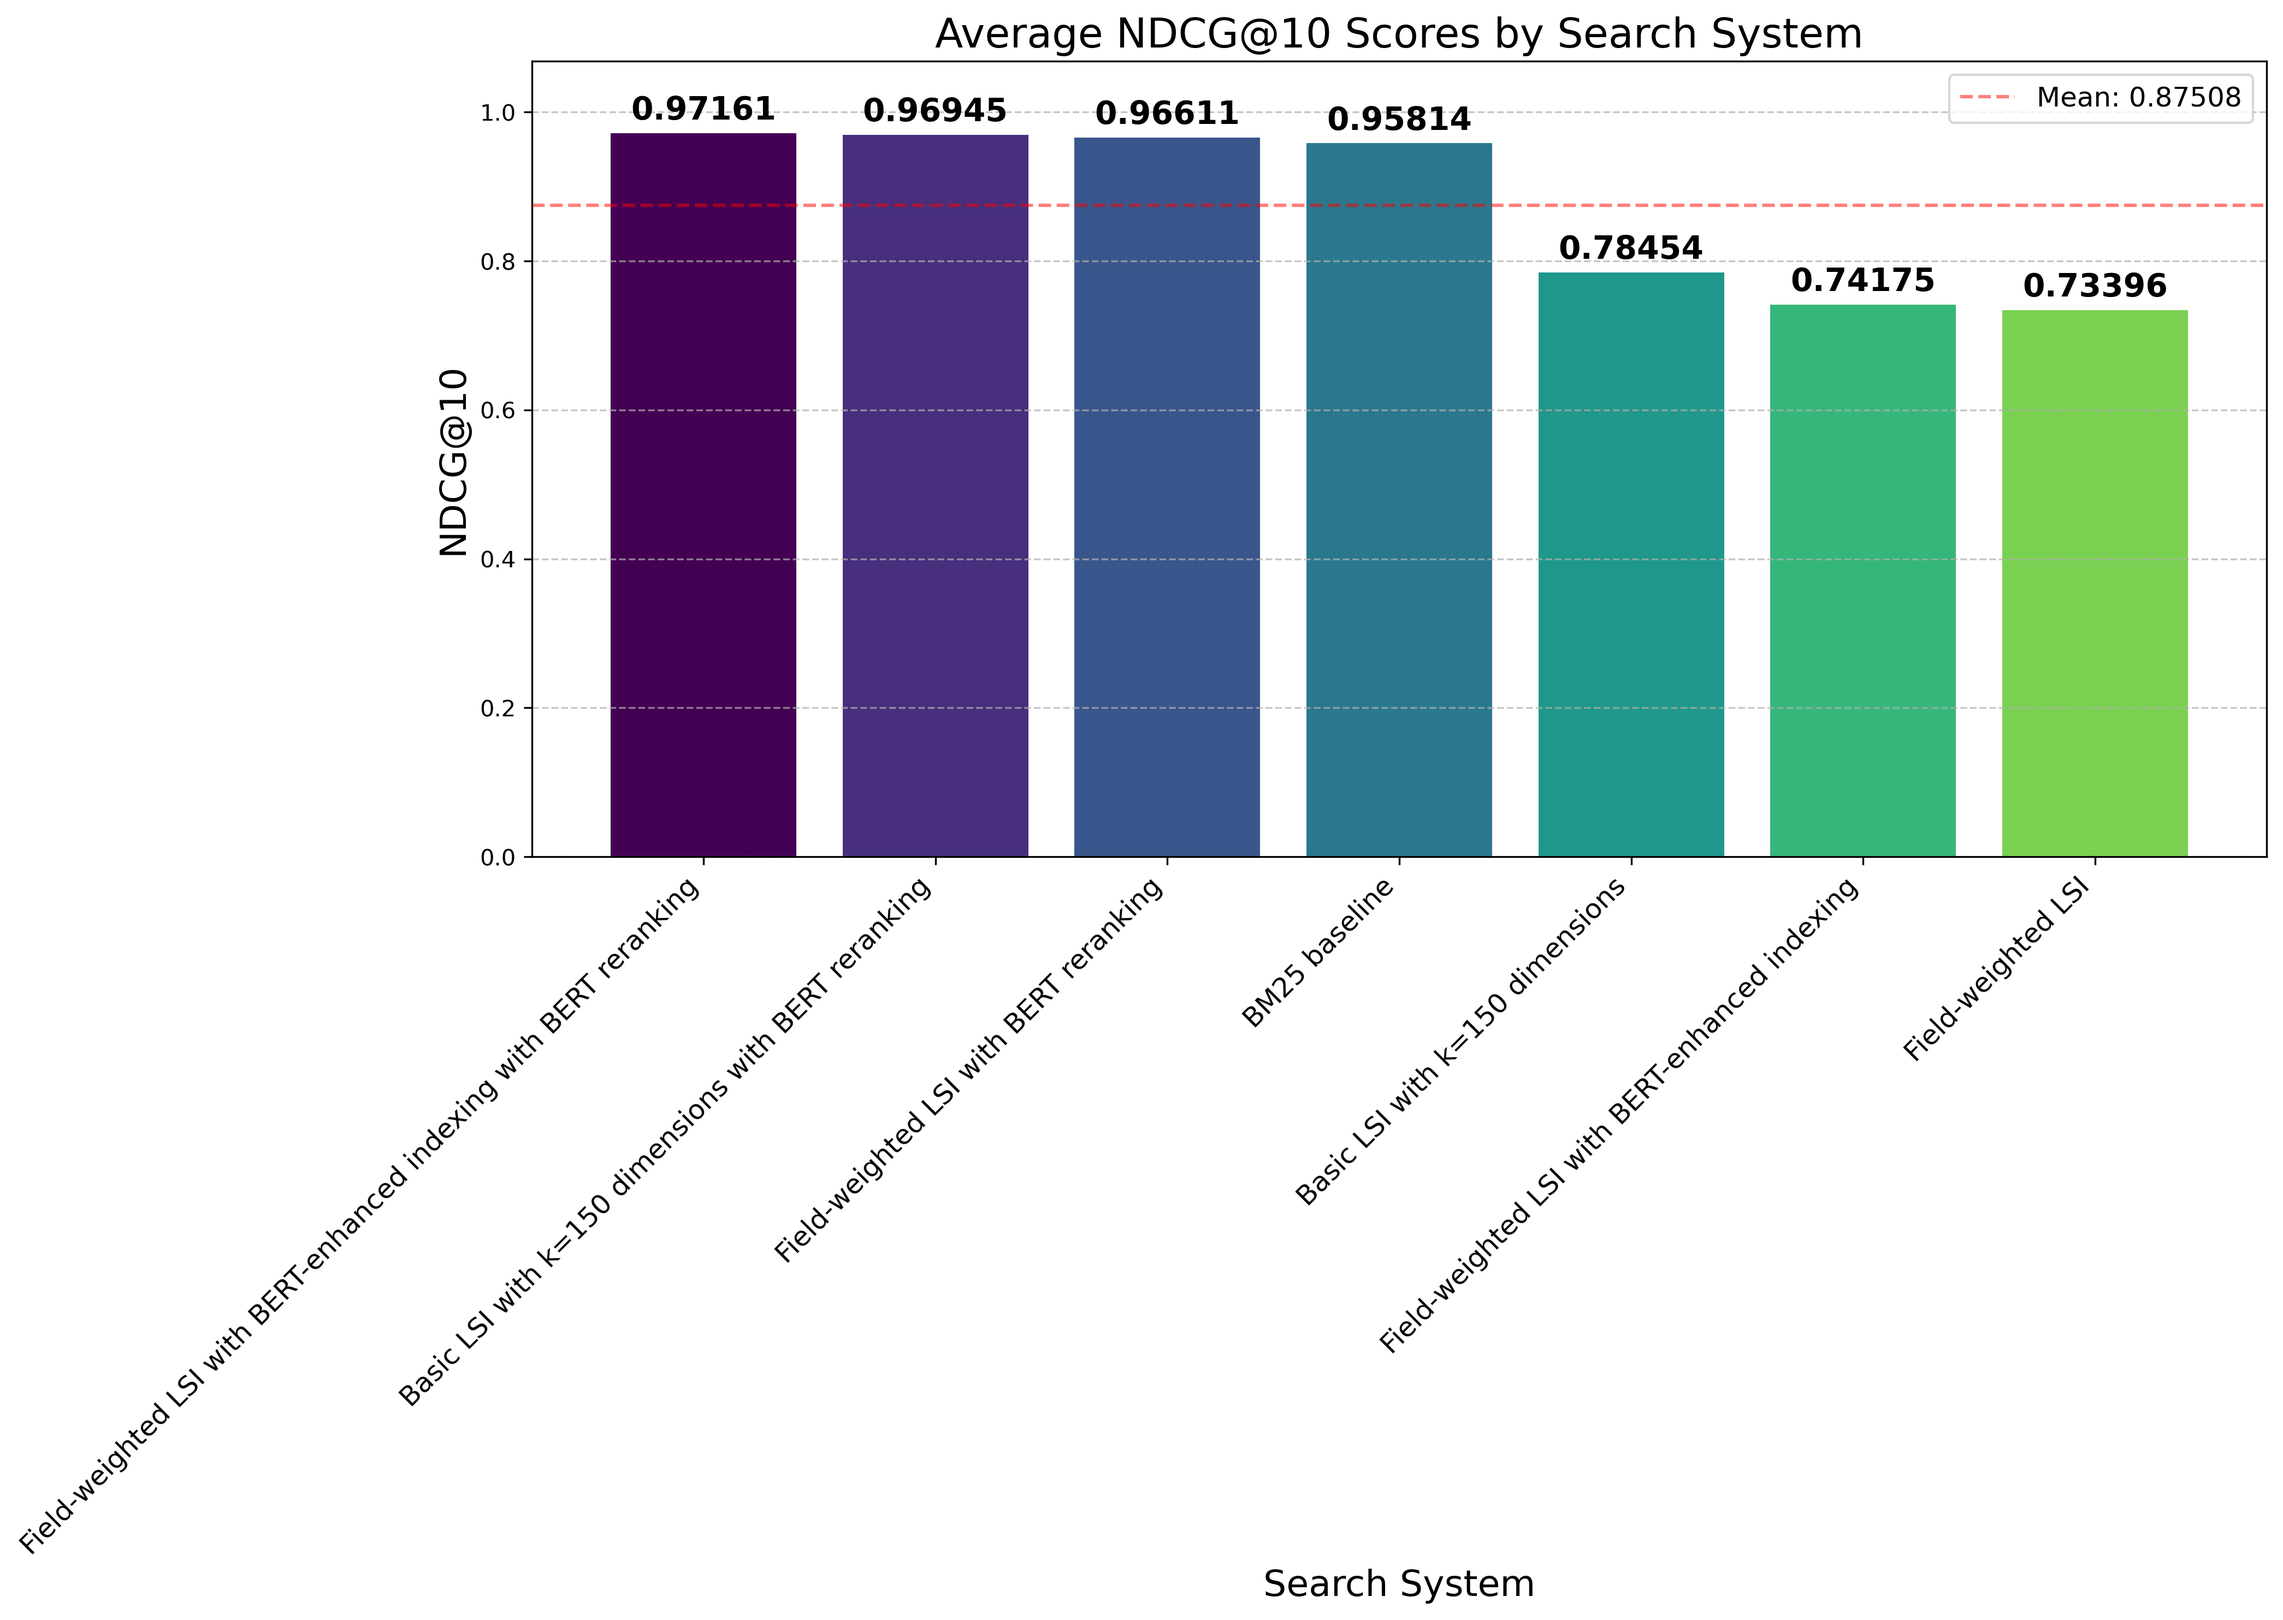
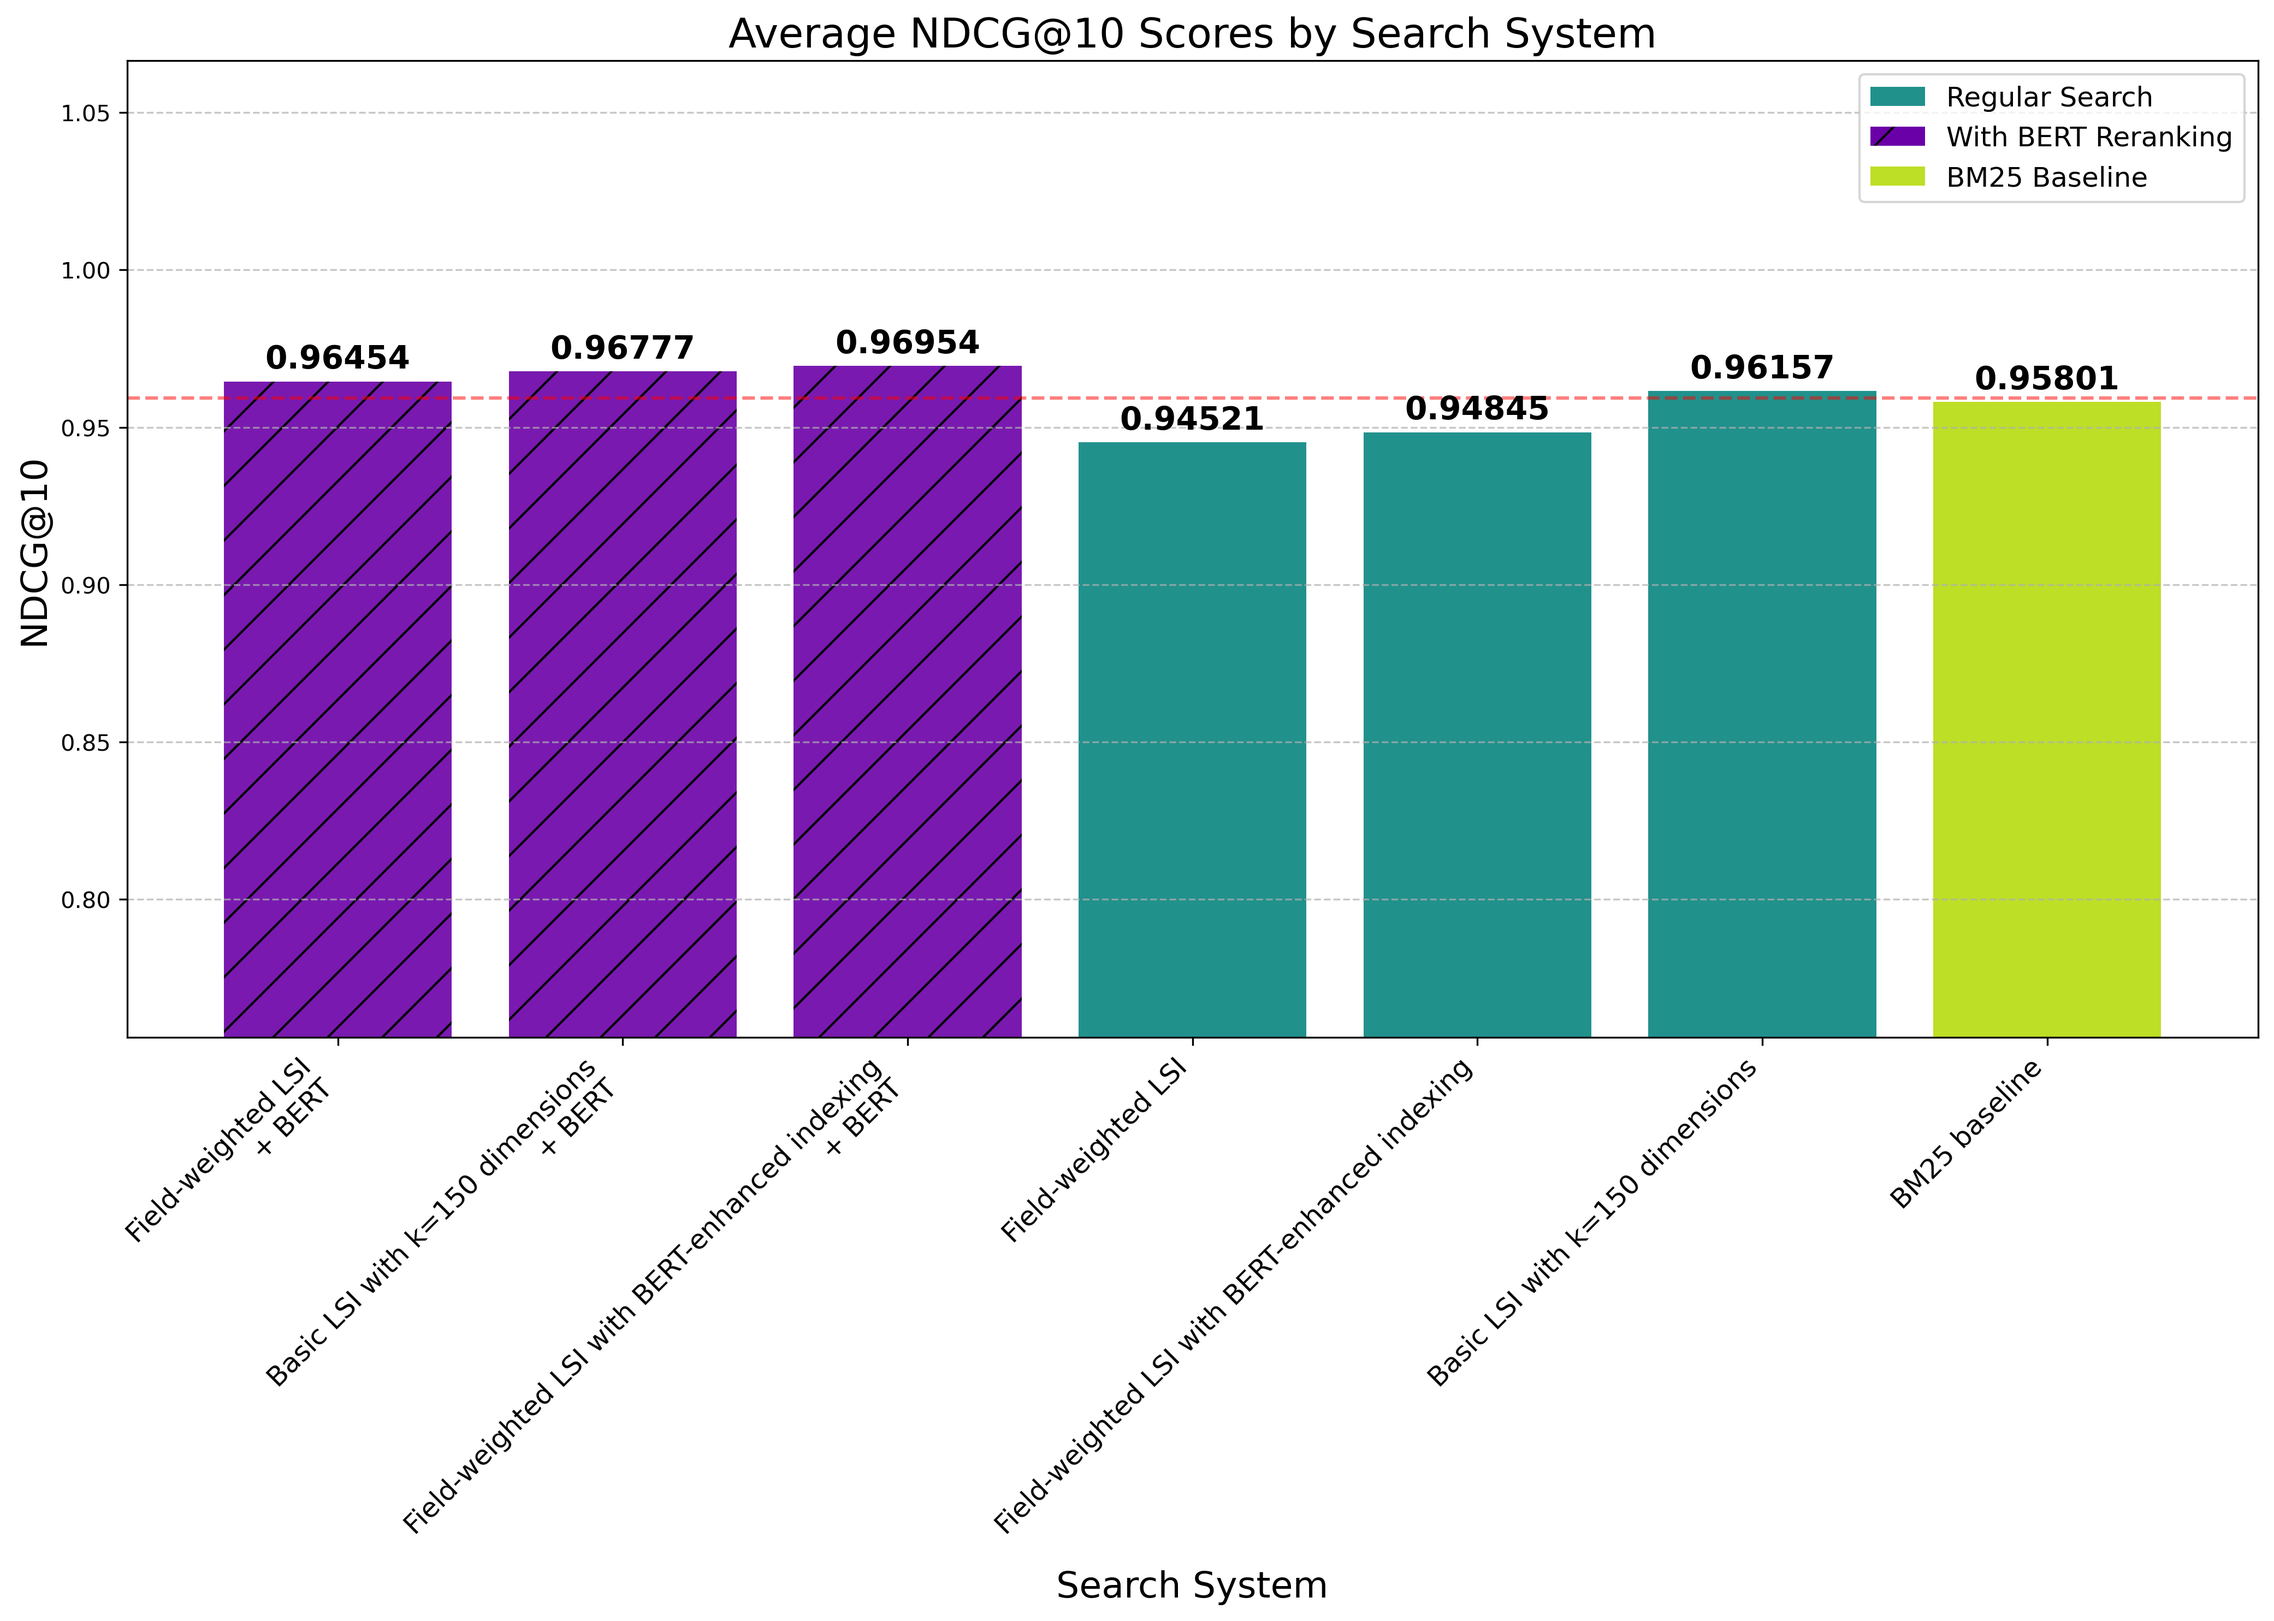
final

diff --git a/evaluation/visualizations/ndcg_report.html b/evaluation/visualizations/ndcg_report.html
@@ -13,6 +13,8 @@
             .plot { margin: 20px 0; text-align: center; }
             .plot img { max-width: 100%; height: auto; border: 1px solid #ddd; }
             .summary { background-color: #eef; padding: 15px; border-radius: 5px; }
+            .bert { background-color: #ffe; }
+            .baseline { font-weight: bold; }
         </style>
     </head>
     <body>
@@ -31,46 +33,46 @@
                 <th>Average NDCG@10</th>
             </tr>
     
-            <tr>
+            <tr class="baseline">
                 <td>1</td>
-                <td>Field-weighted LSI with BERT-enhanced indexing with BERT reranking</td>
-                <td>0.97161</td>
-            </tr>
-        
-            <tr>
-                <td>2</td>
-                <td>Basic LSI with k=150 dimensions with BERT reranking</td>
-                <td>0.96945</td>
-            </tr>
-        
-            <tr>
-                <td>3</td>
-                <td>Field-weighted LSI with BERT reranking</td>
-                <td>0.96611</td>
-            </tr>
-        
-            <tr>
-                <td>4</td>
                 <td>BM25 baseline</td>
-                <td>0.95814</td>
+                <td>0.95801</td>
             </tr>
         
-            <tr>
-                <td>5</td>
+            <tr class="">
+                <td>2</td>
                 <td>Basic LSI with k=150 dimensions</td>
-                <td>0.78454</td>
+                <td>0.96157</td>
             </tr>
         
-            <tr>
-                <td>6</td>
+            <tr class="">
+                <td>3</td>
                 <td>Field-weighted LSI with BERT-enhanced indexing</td>
-                <td>0.74175</td>
+                <td>0.94845</td>
             </tr>
         
-            <tr>
-                <td>7</td>
+            <tr class="">
+                <td>4</td>
                 <td>Field-weighted LSI</td>
-                <td>0.73396</td>
+                <td>0.94521</td>
+            </tr>
+        
+            <tr class="bert">
+                <td>5</td>
+                <td>Field-weighted LSI with BERT-enhanced indexing with BERT reranking</td>
+                <td>0.96954</td>
+            </tr>
+        
+            <tr class="bert">
+                <td>6</td>
+                <td>Basic LSI with k=150 dimensions with BERT reranking</td>
+                <td>0.96777</td>
+            </tr>
+        
+            <tr class="bert">
+                <td>7</td>
+                <td>Field-weighted LSI with BERT reranking</td>
+                <td>0.96454</td>
             </tr>
         
         </table>
